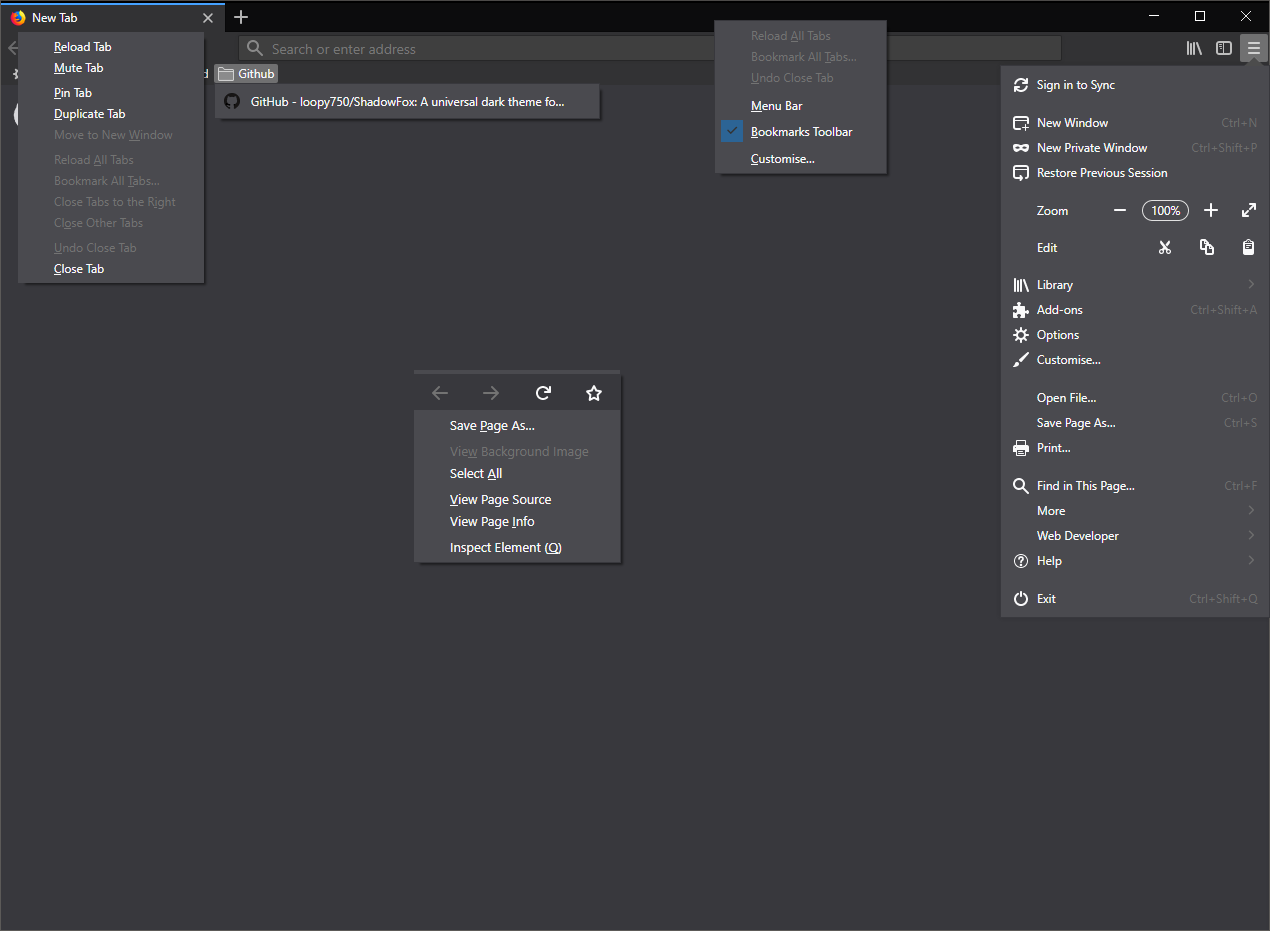
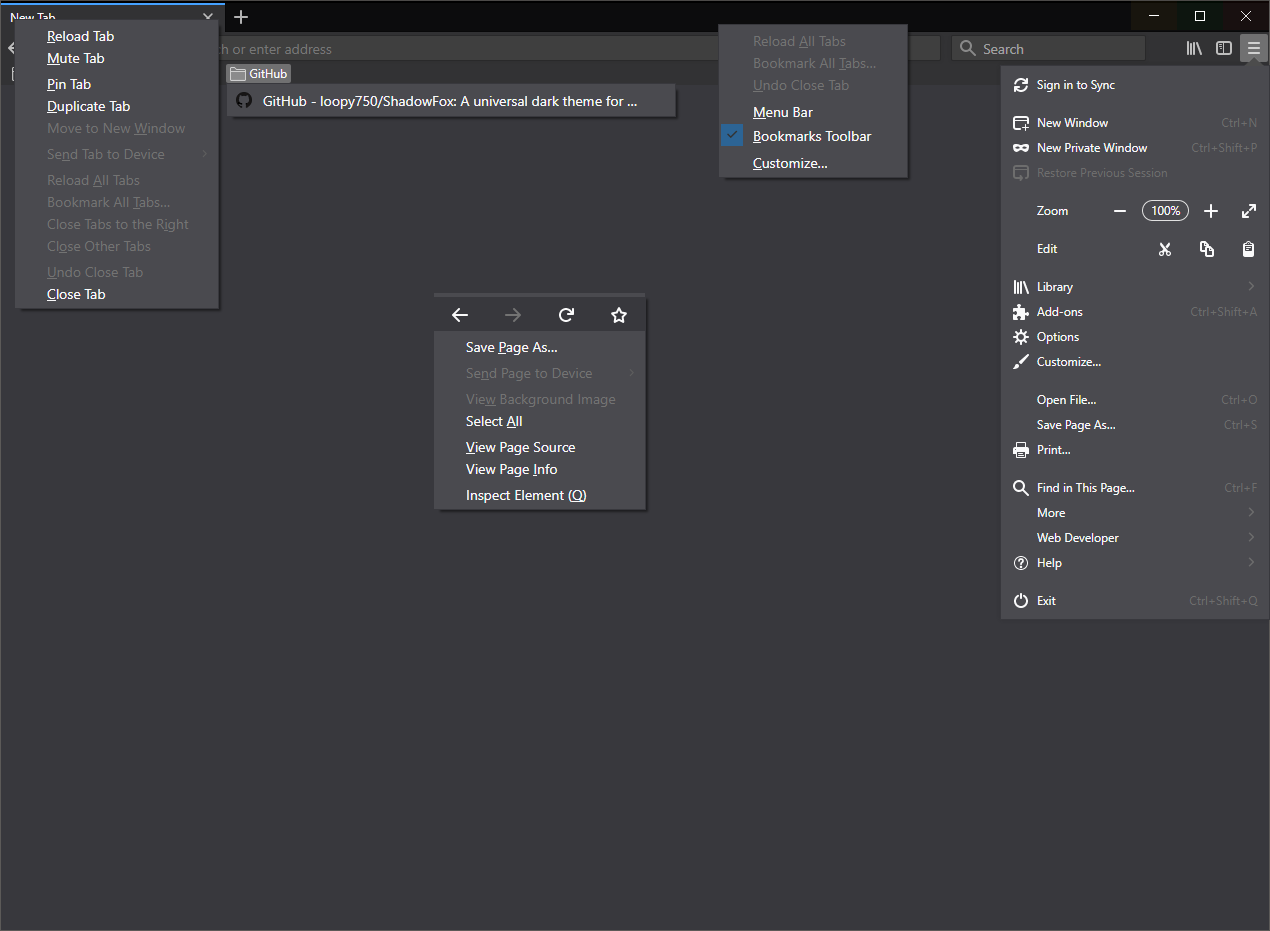
Tweaks

diff --git a/userChrome.js b/userChrome.js
@@ -52,13 +52,18 @@
     }\
     :not(select):not(hbox) > scrollbar thumb:active,\
     :not(select):not(hbox) > scrollbar thumb:hover {\
-        background-color: rgba(159, 159, 159, 0.9) !important;\
+        background-color: rgba(159, 159, 159, 0.8) !important;\
 		background-image: linear-gradient(to right,transparent,rgba(255, 255, 255, 0.1),transparent) !important;\
     }\
     :not(select):not(hbox) > scrollbar:active,\
     :not(select):not(hbox) > scrollbar:hover {\
         // -moz-margin-start: -14px;\
-        box-shadow: -1px 0px 2px 1px rgba(159, 159, 159, 0.1);\
+        box-shadow: -1px 0px 2px 1px rgba(159, 159, 159, 0.25);\
+    }\
+    :not(select):not(hbox) > scrollbar thumb:active {\
+        background-color: rgba(159, 159, 159, 1) !important;\
+		background-image: linear-gradient(to right,transparent,rgba(255, 255, 255, 0.1),transparent) !important;\
+        transition: background-color 0s ease-in-out;\
     }\
     :not(select):not(hbox) > scrollbar scrollbarbutton, :not(select):not(hbox) > scrollbar gripper {\
         display: none;\

diff --git a/userChrome-files/dark_context_menus.css b/userChrome-files/dark_context_menus.css
@@ -39,11 +39,11 @@ menupopup menuseparator {
 
 /* Context menu, display disabled items in a different colour */
 
-menuitem[disabled="true"] {
+menu[disabled="true"], menuitem[disabled="true"] {
   color: var(--grey-50) !important;
 }
 
-menuitem:hover[disabled="true"] {
+menu[disabled="true"]:hover, menuitem:hover[disabled="true"] {
   color: var(--grey-50) !important;
   background-color: var(--grey-70) !important;
 }

diff --git a/userChrome.css b/userChrome.css
@@ -349,10 +349,12 @@ menupopup menuseparator {
 
 /* Context menu, display disabled items in a different colour */
 
+menu[disabled="true"],
 menuitem[disabled="true"] {
   color: var(--grey-50) !important;
 }
 
+menu[disabled="true"]:hover,
 menuitem:hover[disabled="true"] {
   color: var(--grey-50) !important;
   background-color: var(--grey-70) !important;
